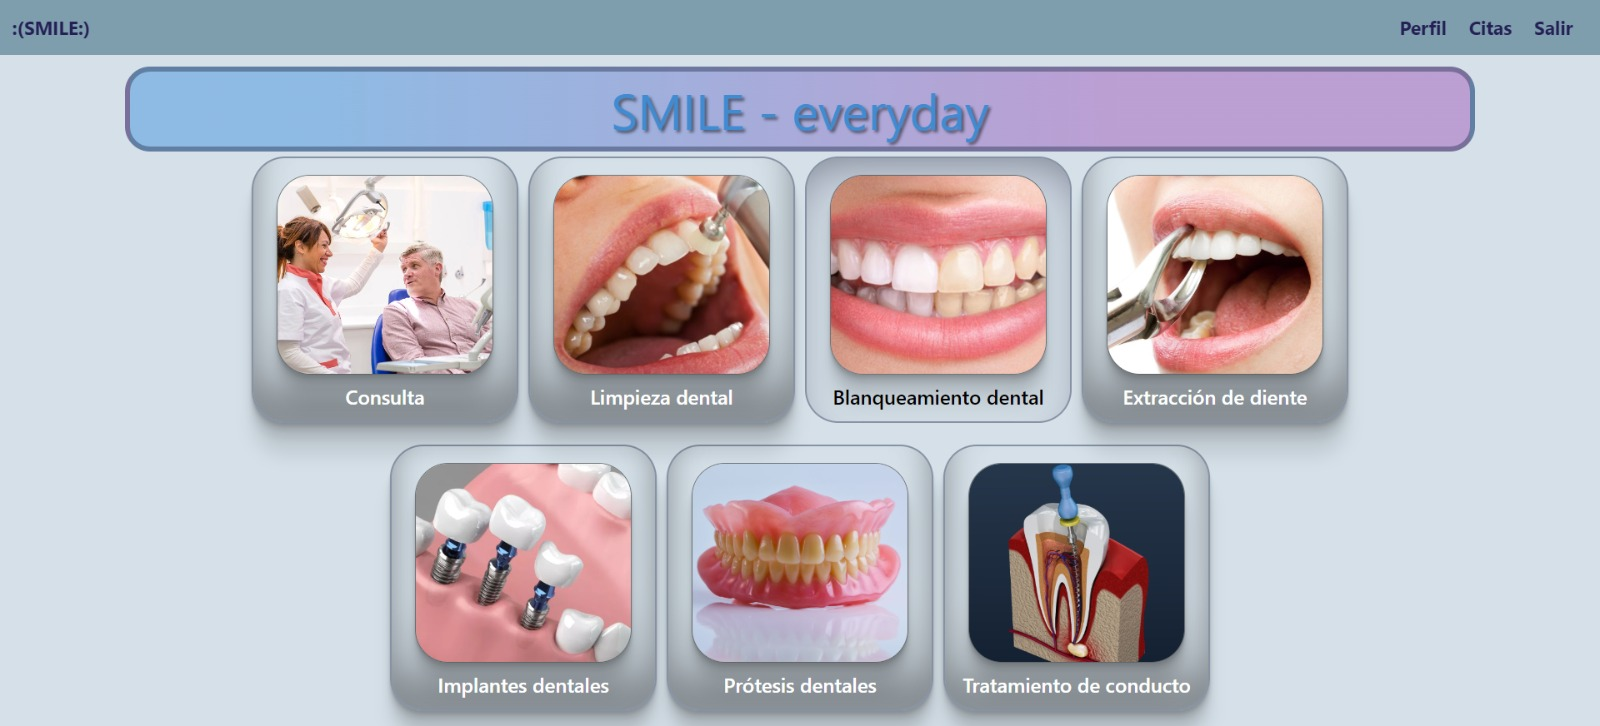
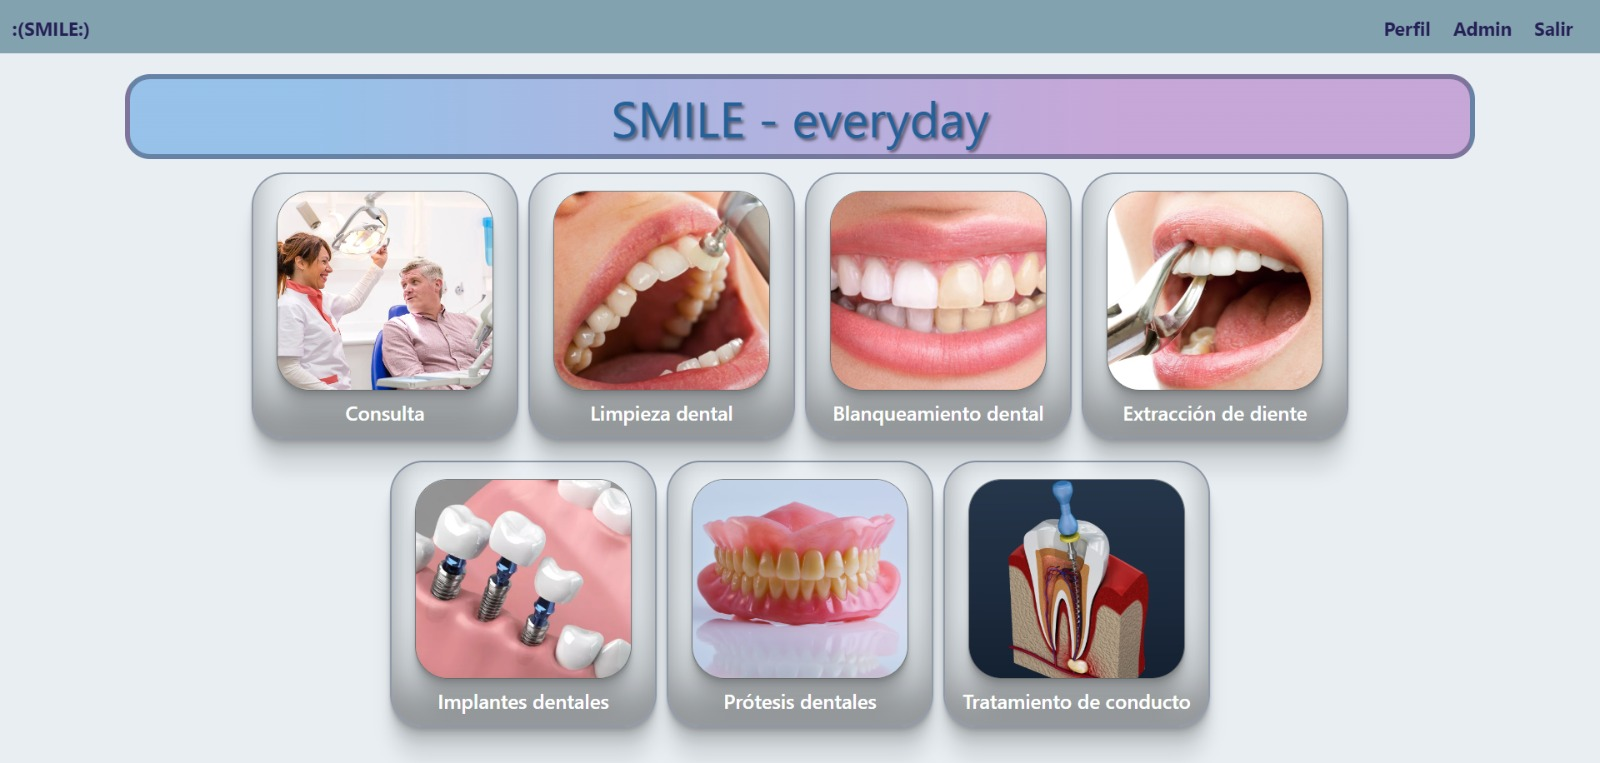
Refactor: readme

diff --git a/src/pages/Profile/Profile.jsx b/src/pages/Profile/Profile.jsx
@@ -1,6 +1,5 @@
 import React, { useState, useEffect } from "react";
 import { getProfile, updateProfile } from "../../services/apiCalls";
-import "./Profile.css";
 import { Card, Form, Container, Row, Col } from "react-bootstrap";
 import { useSelector } from "react-redux/es/hooks/useSelector";
 import { userData } from "../../pages/userSlice";
@@ -53,15 +52,17 @@ export const Profile = () => {
             <Card style={{
                 backgroundColor: '#9f53b97d',
                 borderRadius: '5em',
-                boxShadow: 'rgba(0, 0, 0, 0.2) 0em 3.5em 3em -0.5em',
+                boxShadow: 'rgba(14, 30, 37, 0.12) 0em 0.125em 0.25em 0em, rgba(14, 30, 37, 0.32) 0em 0.125em 1em 0em',
                 minWidth: '20.4em',
                 maxWidth: '26m'
             }}>
                 <Card.Body>
                     <Card.Title className="text-center mb-3 display-5"
                         style={{
-                            textShadow: '0.05em 0.05em 0.06em rgba(0, 0, 0, 0.5)',
-                        }}>Perfil
+                            color:'white',
+                            textShadow: '0.05em 0.05em 0.08em rgba(0, 0, 0)',
+                        }}>
+                            <strong>Perfil</strong>
                     </Card.Title>
                     <Form>
                         <Form.Group>

diff --git a/src/pages/Register/Register.jsx b/src/pages/Register/Register.jsx
@@ -40,7 +40,7 @@ export const Register = () => {
                     style={{
                         backgroundColor: 'rgba(64, 139, 209, 0.607)',
                         borderRadius: '8.7em',
-                        boxShadow: 'rgba(0, 0, 0, 0.2) 0em 3.5em 3em -0.5em'
+                        boxShadow: 'rgba(14, 30, 37, 0.12) 0em 0.125em 0.25em 0em, rgba(14, 30, 37, 0.32) 0em 0.125em 1em 0em'
                     }}>
                     <Card.Body >
                         <Card.Title className="text-center mb-3 display-5"

diff --git a/src/pages/ServiceDetail/ServiceDetail.css b/src/pages/ServiceDetail/ServiceDetail.css
@@ -3,11 +3,13 @@
     border-radius: 2em;
     background-color: rgba(121, 161, 192, 0.547);
     padding: 1em;
-    margin-top: 3.6em;
+    margin-top: 3em;
     border: 0.1em solid rgb(135, 32, 155);
     box-shadow: rgba(6, 24, 44, 0.4) 0em 0em 0em 0.125em, rgba(6, 24, 44, 0.65) 0em 0.25em 0.375em -0.0625em, rgba(255, 255, 255, 0.08) 0em 0.0625em 0em inset;
 }
 .imageDetail{
     width: 15em;
     border-radius: 2em;
+    box-shadow: rgba(14, 30, 37, 0.12) 0em 0.125em 0.25em 0em, rgba(14, 30, 37, 0.32) 0em 0.125em 1em 0em;
+
 }

diff --git a/src/pages/Login/Login.jsx b/src/pages/Login/Login.jsx
@@ -64,7 +64,7 @@ export const Login = () => {
         <Card style={{
           backgroundColor: 'rgba(64, 139, 209, 0.607)',
           borderRadius: '10em',
-          boxShadow: 'rgba(0, 0, 0, 0.2) 0em 3.5em 3em -0.5em'
+          boxShadow: 'rgba(0, 0, 0, 0.19) 0em 0.625em 1.25em, rgba(0, 0, 0, 0.23) 0em 0.375em 0.375em'
         }}>
           <Card.Title className="text-center mt-3 display-5"
             style={{

diff --git a/src/App.css b/src/App.css
@@ -56,7 +56,7 @@
 .requestUser {
   font-size: 2.7em;
   font-weight: bold;
-  color: rgb(71, 176, 211);
+  color: rgba(234, 48, 206, 0.555);
   margin-top: 1em;
   text-shadow: 0.04em 0.05em 0.06em rgb(0, 0, 0);
 }
@@ -65,8 +65,6 @@
   flex: 1;
   justify-content: center;
   align-items: center;
-  /* background-color: #f0f0f000; */
-  /* font-weight: bold; */
   border-bottom: 0.06em solid #aca7a7;
 }
 

diff --git a/src/pages/Home/Home.jsx b/src/pages/Home/Home.jsx
@@ -15,8 +15,8 @@ export const Home = () => {
 
     
     return (
-        <Container className="mt-3">
-            <div className="clinicTitle mt-5"
+        <Container className="mt-4">
+            <div className="clinicTitle mt-4"
                 style={{
                     textShadow: '0.05em 0.05em 0.06em rgba(0, 0, 0, 0.5)'
                 }}>SMILE - everyday

diff --git a/src/common/Header/Header.css b/src/common/Header/Header.css
@@ -3,7 +3,7 @@
     position: fixed;
     top: 0;
     left: 0;
-    height: 8vh;
+    height: 7vh;
     width: 100vw;
     background-color: #598295b4;
     display: flex;
@@ -28,7 +28,7 @@
     color: rgb(37, 32, 86);
     transition: 0.5s;
     cursor: pointer;
-    margin-bottom: 0.2em;
+    margin-bottom: 0.1em;
     margin-right: 1em;
 }
 

diff --git a/src/pages/Home/Home.css b/src/pages/Home/Home.css
@@ -1,11 +1,8 @@
 .homeDesign{
-    /* height: 100%;
-    width: 100%; */
     display: flex;
     flex-direction: column;
     justify-content: center;
     align-items: center;
-
   }
 
 .clinicTitle {

diff --git a/README.md b/README.md
@@ -43,7 +43,7 @@ Cuenta con una página para ver y editar datos de usuario en caso de necesitarlo
 
 ### ADMIN
 
-!['admin'](./img/admin.png)
+!['admin'](./img/admin.jpeg)
 
 Los Admin, contarán con una vista privada para poder llevar el control de la clínica.
 
